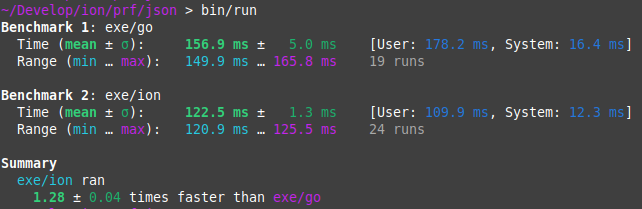
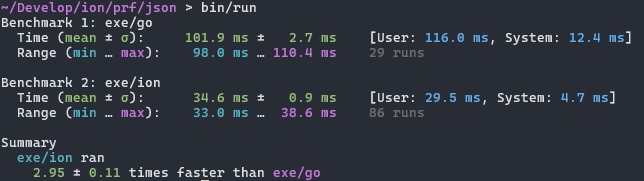
improved json prf

diff --git a/prf/json/src/ion/ion.c b/prf/json/src/ion/ion.c
@@ -5,25 +5,25 @@ void decode (
     void
 )
 {
-  struct data {
+  struct {
     struct array* users;
   } data;
 
   struct user {
-    char* name;
+    struct string name;
     u32 age;
     struct array* roles;
   };
 
-  struct reflect data_reflection = {
-    type(STRUCT, sizeof(struct data)), fields({
-      { field(struct data, users), type(POINTER), of({
-          type(ARRAY, 0, 0), of({
-            type(STRUCT, sizeof(struct user)), fields({
-              { field(struct user, name), type(POINTER), of({ type(CHAR) }) },
-              { field(struct user, age), type(I32) },
-              { field(struct user, roles), type(POINTER), of({
-                  type(ARRAY, 0, 0), of({ type(POINTER), of({ type(CHAR) }) })
+  struct reflection data_rfx = {
+    type(STRUCT, typeof(data)), fields({
+      { field(users, POINTER, typeof(data)), of({
+          type(ARRAY), of({
+            type(STRUCT, struct user), fields({
+              { field(name, STRING, struct user) },
+              { field(age, I32, struct user) },
+              { field(roles, POINTER, struct user), of({
+                  type(ARRAY), of({ type(STRING) })
                 })
               },
             })
@@ -35,22 +35,27 @@ void decode (
 
   struct memory allocator = memory_init(0);
   struct io json = file_read("decode.json", &allocator);
-  struct object target = object(data, &data_reflection, &allocator);
-  json_decode(&json, &target);
+  if (error.occurred) {
+    error_print();
+    return;
+  }
+
+  reflection_initialize(&data_rfx, &data, &allocator);
+  json_decode(&json, &data_rfx);
 
   struct user* user;
 
   user = array_get(data.users, 0);
-  print("Done: { %s, %i, [ %s, %s ] }",
-    user->name, user->age,
-    *(char**) array_get(user->roles, 0),
-    *(char**) array_get(user->roles, 1));
+  print("Done: { %.*s, %i, [ %.*s, %.*s ] }",
+    sp(&(user->name)), user->age,
+    sp((struct string*) array_get(user->roles, 0)),
+    sp((struct string*) array_get(user->roles, 1)));
 
   user = array_get(data.users, 99999);
-  print("Done: { %s, %i, [ %s, %s ] }",
-    user->name, user->age,
-    *(char**) array_get(user->roles, 0),
-    *(char**) array_get(user->roles, 1));
+  print("Done: { %.*s, %i, [ %.*s, %.*s ] }",
+    sp(&(user->name)), user->age,
+    sp((struct string*) array_get(user->roles, 0)),
+    sp((struct string*) array_get(user->roles, 1)));
 
   memory_release(&allocator);
 }
